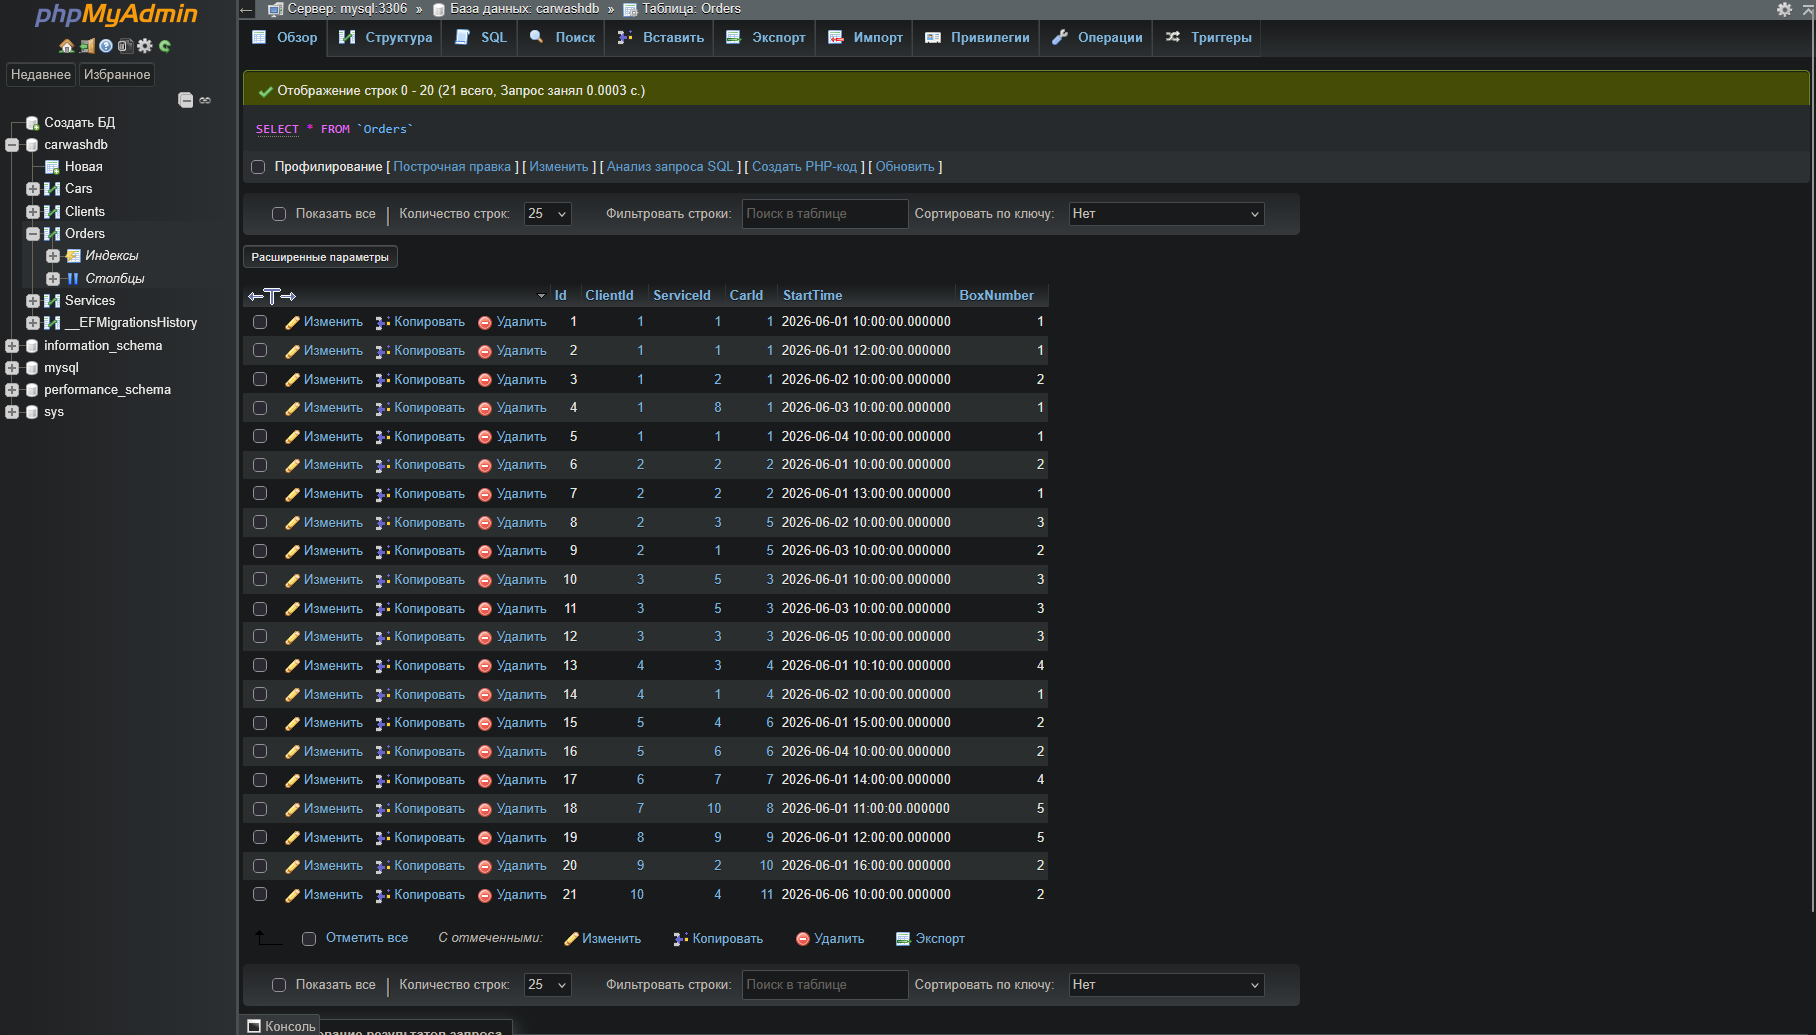
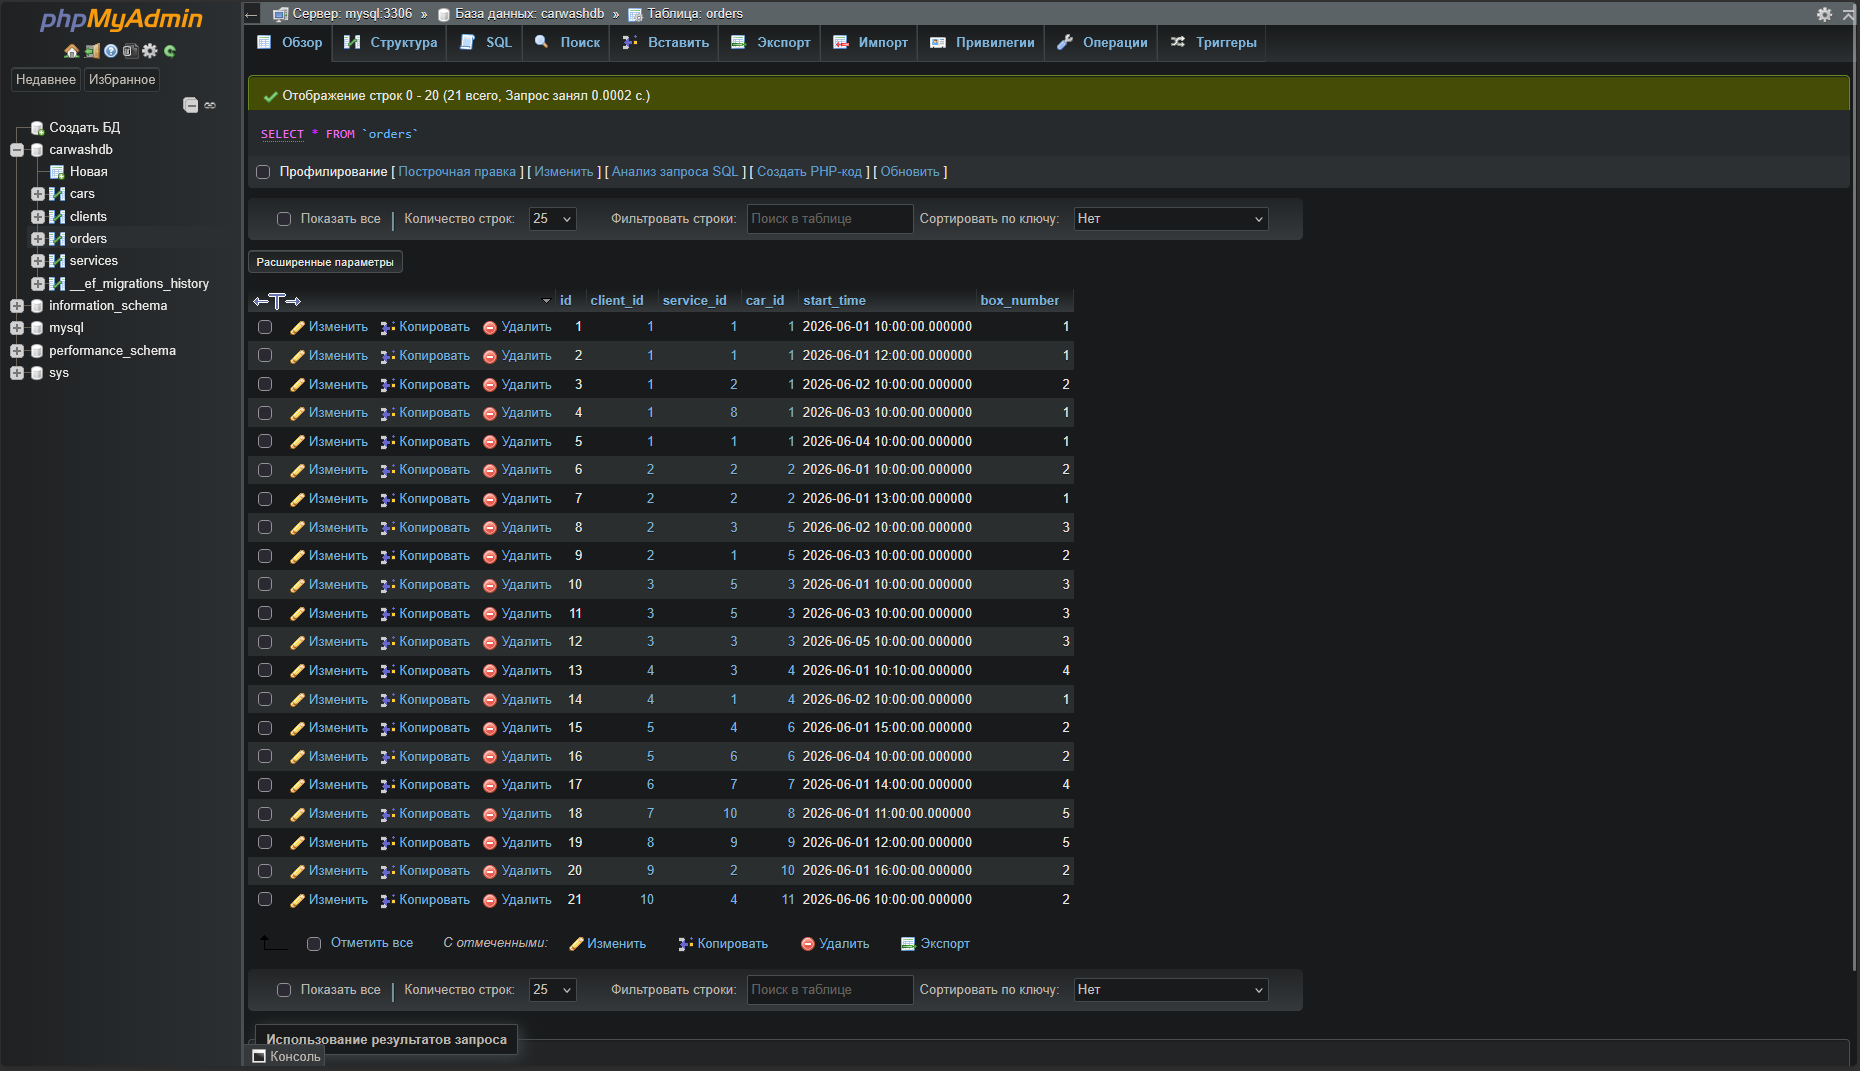
update README and screenshots

Changed region(s): [[0.0, 0.0, 1.0, 1.0], [0.9868, 0.9894, 1.0, 1.0], [0.0925, 0.0928, 0.1233, 0.1237]]

diff --git a/README.md b/README.md
@@ -17,21 +17,25 @@
 * `CarWash.Domain` - ядро приложения. Содержит сущности (`Car`, `Client`, `Service`, `Order`), интерфейсы репозиториев и тестовые данные (`DataSeed`). Зависит только от `CarWash.Shared`.
 * `CarWash.Contracts` - DTO (Data Transfer Objects) для запросов/ответов API, а также интерфейсы сервисов.
 * `CarWash.Application` - бизнес-логика. Реализация сервисов (`CarService`, `ClientService`, `ServiceService`, `OrderService`, `AnalyticsService`) и преобразование доменных сущностей в DTO.
-* `CarWash.Infrastructure.EfCore` - **новый.** Хранение данных в MySQL через EF Core: контекст `CarWashDbContext`, конфигурации таблиц, репозитории, миграции с начальными данными.
+* `CarWash.Infrastructure.EfCore` - Хранение данных в MySQL через EF Core: контекст `CarWashDbContext`, конфигурации таблиц, репозитории, миграции с начальными данными. Соединение с БД берется из источника данных Aspire (`MySqlDataSource`).
 * `CarWash.Infrastructure.InMemory` - репозитории, хранящие данные в памяти. Сервером больше не используются, остаются для юнит-тестов.
-* `CarWash.Api` - слой представления. Контроллеры и конфигурация DI. Строку подключения к БД получает от оркестратора.
-* `CarWash.AppHost` - **новый.** Оркестратор .NET Aspire: запускает контейнер MySQL, создает базу данных, запускает сервер и передает ему строку подключения.
+* `CarWash.Api` - слой представления. Контроллеры и конфигурация DI. Подключение к БД получает от оркестратора через пакет `Aspire.MySqlConnector` (health-check и телеметрия запросов к MySQL).
+* `CarWash.ServiceDefaults` - Общие настройки Aspire для сервисов: OpenTelemetry (логи, метрики, трассировки), health-check эндпоинты `/health` и `/alive`. Подключается к серверу.
+* `CarWash.AppHost` - Оркестратор .NET Aspire: запускает контейнер MySQL, создает базу данных, запускает сервер и передает ему строку подключения.
 * `CarWash.Tests` - юнит-тесты бизнес-логики (xUnit v3).
 
 ### База данных
 
 Используется MySQL 8.4 (в Docker-контейнере, запускаемом через Aspire). Провайдер EF Core - `Microting.EntityFrameworkCore.MySql` (поддерживаемый форк Pomelo с поддержкой EF Core 10).
 
+Имена таблиц, столбцов, ключей и индексов в БД задаются в `snake_case` (пакет `EFCore.NamingConventions`).
+
 Таблицы:
-* `Clients` - клиенты (ФИО, телефон).
-* `Cars` - автомобили (госномер, марка). Внешний ключ `ClientId` на владельца необязателен: автомобиль может существовать без владельца. При удалении клиента его автомобили остаются, а `ClientId` становится `NULL`.
-* `Services` - услуги (название, категория автомобиля, цена, длительность в минутах). Категория хранится строкой (`Passenger`, `Suv`, `Truck`, `Minivan`).
-* `Orders` - заказы (клиент, автомобиль, услуга, время начала, номер бокса). Внешние ключи с `Restrict`: нельзя удалить клиента, автомобиль или услугу, пока на них ссылаются заказы.
+* `clients` - клиенты (`id`, `full_name`, `phone`).
+* `cars` - автомобили (`id`, `license_plate`, `brand`, `client_id`). Внешний ключ `client_id` на владельца необязателен: автомобиль может существовать без владельца. При удалении клиента его автомобили остаются, а `client_id` становится `NULL`.
+* `services` - услуги (`id`, `name`, `category`, `price`, `duration_minutes`). Категория хранится строкой (`Passenger`, `Suv`, `Truck`, `Minivan`).
+* `orders` - заказы (`id`, `client_id`, `car_id`, `service_id`, `start_time`, `box_number`). Внешние ключи с `Restrict`: нельзя удалить клиента, автомобиль или услугу, пока на них ссылаются заказы.
+* `__ef_migrations_history` - служебная таблица EF Core со списком примененных миграций.
 
 Начальные данные (по 10 и более записей в каждой таблице) загружаются самой миграцией из `CarWash.Domain/Data/DataSeed.cs`. При старте сервер автоматически применяет непримененные миграции.
 
@@ -41,7 +45,7 @@ dotnet ef migrations add <ИмяМиграции> --project src/CarWash.Infrastr
 ```
 
 ### Основные эндпоинты API:
-* CRUD-операции для всех сущностей: `Cars` (Автомобили), `Clients` (Клиенты), `Services` (Услуги) и `Orders` (Заказы).
+* CRUD-операции для всех сущностей: `Cars` (Автомобили), `Clients` (Клиенты), `Services` (Услуги) и `Orders` (Заказы). В ответах по заказам клиент, автомобиль и услуга возвращаются вложенными объектами (`client`, `car`, `service`).
 * Работа с автомобилями клиента:
 	* `GET /api/clients/{id}/cars` - автомобили клиента.
 	* `POST /api/clients/{id}/cars/{carId}` - привязать автомобиль к клиенту (409, если автомобиль уже принадлежит другому клиенту).
@@ -67,7 +71,9 @@ dotnet run --project src/CarWash.AppHost
 После запуска откроется дашборд Aspire (https://localhost:17261). В нем отображаются все ресурсы:
 * `mysql` и `carwashdb` - сервер MySQL и база данных;
 * `phpmyadmin` - веб-интерфейс для просмотра таблиц;
-* `carwash-api` - сервер. Порт назначается Aspire автоматически и указан в дашборде. Интерфейс Scalar доступен по адресу `<адрес сервера>/scalar`.
+* `carwash-api` - сервер. Адрес указан в дашборде. Интерфейс Scalar доступен по адресу `<адрес сервера>/scalar`, проверка состояния - `<адрес сервера>/health`.
+
+Трассировки запросов (в том числе обращений к MySQL) можно посмотреть на вкладке "Трассировки" дашборда.
 
 Запускать `CarWash.Api` отдельно без оркестратора не нужно: строку подключения к БД ему передает AppHost.
 
@@ -91,3 +97,7 @@ dotnet test
 Сервер на данных из MySQL (Scalar):
 
 ![Scalar](./images/lab3_scalar.png)
+
+Трассировки запросов в дашборде Aspire:
+
+![Трассировки](./images/lab3_traces.png)
